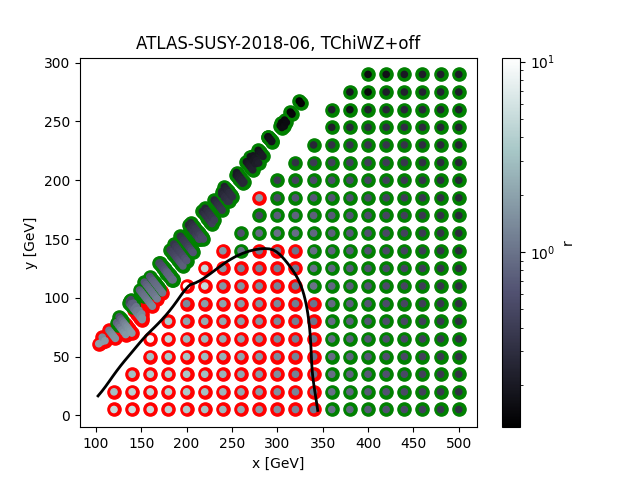
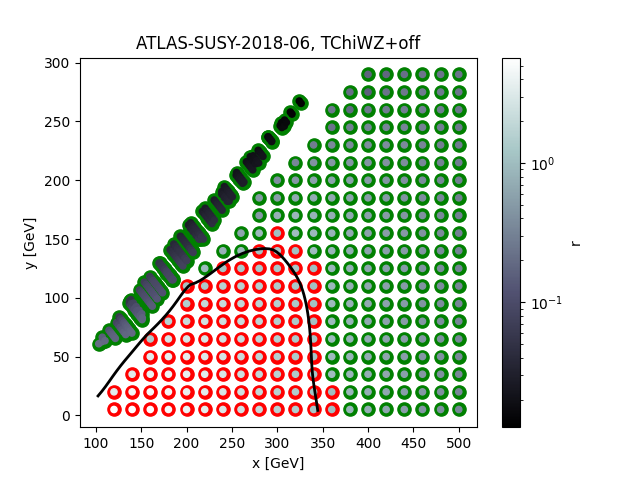
Ratioplots added

diff --git a/plots/README.md b/plots/README.md
@@ -1,12 +1,13 @@
 # collection of plots
-Tue Sep 14 14:59:46 2021
+Wed Sep 15 18:34:47 2021
 
 |                    |                  |
 |:------------------:|:----------------:|
-|  ATLAS-SUSY-2013-04-eff_T5WW+off ![./bestSR_ATLAS-SUSY-2013-04-eff_T5WW+off.png](./bestSR_ATLAS-SUSY-2013-04-eff_T5WW+off.png?1631624386.0815217) |  ATLAS-SUSY-2013-04_T5WW+off_x0.5x+0.5yyx0.5x+0.5yy ![./combo_ATLAS-SUSY-2013-04_T5WW+off_x0.5x+0.5yyx0.5x+0.5yy.png](./combo_ATLAS-SUSY-2013-04_T5WW+off_x0.5x+0.5yyx0.5x+0.5yy.png?1631624386.0815217) |
-|  ATLAS-SUSY-2013-09-eff_T6ttWW+off ![./bestSR_ATLAS-SUSY-2013-09-eff_T6ttWW+off.png](./bestSR_ATLAS-SUSY-2013-09-eff_T6ttWW+off.png?1631624386.0815217) |  ATLAS-SUSY-2013-09_T6ttWW+off_x2yyx2yy ![./combo_ATLAS-SUSY-2013-09_T6ttWW+off_x2yyx2yy.png](./combo_ATLAS-SUSY-2013-09_T6ttWW+off_x2yyx2yy.png?1631624386.0815217) |
-|  ATLAS-SUSY-2013-11-eff_TChiWW+off ![./bestSR_ATLAS-SUSY-2013-11-eff_TChiWW+off.png](./bestSR_ATLAS-SUSY-2013-11-eff_TChiWW+off.png?1631624386.0815217) |  ATLAS-SUSY-2013-11_TChiWW+off_xyxy ![./combo_ATLAS-SUSY-2013-11_TChiWW+off_xyxy.png](./combo_ATLAS-SUSY-2013-11_TChiWW+off_xyxy.png?1631624386.0815217) |
-|  ATLAS-SUSY-2018-06-eff_TChiWZ+off ![./bestSR_ATLAS-SUSY-2018-06-eff_TChiWZ+off.png](./bestSR_ATLAS-SUSY-2018-06-eff_TChiWZ+off.png?1631624386.0815217) |  ATLAS-SUSY-2018-06_TChiWZ+off_xyxy ![./combo_ATLAS-SUSY-2018-06_TChiWZ+off_xyxy.png](./combo_ATLAS-SUSY-2018-06_TChiWZ+off_xyxy.png?1631624386.0815217) |
-|  CMS-SUS-13-012-eff_T5WW+off ![./bestSR_CMS-SUS-13-012-eff_T5WW+off.png](./bestSR_CMS-SUS-13-012-eff_T5WW+off.png?1631624386.0815217) |  CMS-SUS-13-012-eff_T6bbWW+off ![./bestSR_CMS-SUS-13-012-eff_T6bbWW+off.png](./bestSR_CMS-SUS-13-012-eff_T6bbWW+off.png?1631624386.0815217) |
-|  CMS-SUS-13-012_T5WW+off_x0.5x+0.5yyx0.5x+0.5yy ![./combo_CMS-SUS-13-012_T5WW+off_x0.5x+0.5yyx0.5x+0.5yy.png](./combo_CMS-SUS-13-012_T5WW+off_x0.5x+0.5yyx0.5x+0.5yy.png?1631624386.0815217) |  CMS-SUS-13-012_T6bbWW+off_x0.5x+0.5yyx0.5x+0.5yy ![./combo_CMS-SUS-13-012_T6bbWW+off_x0.5x+0.5yyx0.5x+0.5yy.png](./combo_CMS-SUS-13-012_T6bbWW+off_x0.5x+0.5yyx0.5x+0.5yy.png?1631624386.0815217) |
-|  before_ATLAS-SUSY-2013-11_TChiWW+off_xyxy ![./before_combo_ATLAS-SUSY-2013-11_TChiWW+off_xyxy.png](./before_combo_ATLAS-SUSY-2013-11_TChiWW+off_xyxy.png?1631624386.0815217) 
+|  ATLAS-SUSY-2013-04-eff_T5WW+off ![./bestSR_ATLAS-SUSY-2013-04-eff_T5WW+off.png](./bestSR_ATLAS-SUSY-2013-04-eff_T5WW+off.png?1631723687.1673763) |  ATLAS-SUSY-2013-04_T5WW+off_x0.5x+0.5yyx0.5x+0.5yy ![./combo_ATLAS-SUSY-2013-04_T5WW+off_x0.5x+0.5yyx0.5x+0.5yy.png](./combo_ATLAS-SUSY-2013-04_T5WW+off_x0.5x+0.5yyx0.5x+0.5yy.png?1631723687.1673763) |
+|  ATLAS-SUSY-2013-09-eff_T6ttWW+off ![./bestSR_ATLAS-SUSY-2013-09-eff_T6ttWW+off.png](./bestSR_ATLAS-SUSY-2013-09-eff_T6ttWW+off.png?1631723687.1673763) |  ATLAS-SUSY-2013-09_T6ttWW+off_x2yyx2yy ![./combo_ATLAS-SUSY-2013-09_T6ttWW+off_x2yyx2yy.png](./combo_ATLAS-SUSY-2013-09_T6ttWW+off_x2yyx2yy.png?1631723687.1673763) |
+|  ATLAS-SUSY-2013-11-eff_TChiWW+off ![./bestSR_ATLAS-SUSY-2013-11-eff_TChiWW+off.png](./bestSR_ATLAS-SUSY-2013-11-eff_TChiWW+off.png?1631723687.1673763) |  ATLAS-SUSY-2013-11_TChiWW+off_xyxy ![./combo_ATLAS-SUSY-2013-11_TChiWW+off_xyxy.png](./combo_ATLAS-SUSY-2013-11_TChiWW+off_xyxy.png?1631723687.1673763) |
+|  ATLAS-SUSY-2018-06-eff_TChiWZ+off ![./bestSR_ATLAS-SUSY-2018-06-eff_TChiWZ+off.png](./bestSR_ATLAS-SUSY-2018-06-eff_TChiWZ+off.png?1631723687.1673763) |  ATLAS-SUSY-2018-06_TChiWZ+off_xyxy ![./combo_ATLAS-SUSY-2018-06_TChiWZ+off_xyxy.png](./combo_ATLAS-SUSY-2018-06_TChiWZ+off_xyxy.png?1631723687.1673763) |
+|  ratios_ATLAS-SUSY-2018-06_TChiWZ ![./ratios_ATLAS-SUSY-2018-06_TChiWZ.png](./ratios_ATLAS-SUSY-2018-06_TChiWZ.png?1631723687.1673763) |  ratios_ATLAS-SUSY-2018-06_TChiWZoff ![./ratios_ATLAS-SUSY-2018-06_TChiWZoff.png](./ratios_ATLAS-SUSY-2018-06_TChiWZoff.png?1631723687.1673763) |
+|  CMS-SUS-13-012-eff_T5WW+off ![./bestSR_CMS-SUS-13-012-eff_T5WW+off.png](./bestSR_CMS-SUS-13-012-eff_T5WW+off.png?1631723687.1673763) |  CMS-SUS-13-012-eff_T6bbWW+off ![./bestSR_CMS-SUS-13-012-eff_T6bbWW+off.png](./bestSR_CMS-SUS-13-012-eff_T6bbWW+off.png?1631723687.1673763) |
+|  CMS-SUS-13-012_T5WW+off_x0.5x+0.5yyx0.5x+0.5yy ![./combo_CMS-SUS-13-012_T5WW+off_x0.5x+0.5yyx0.5x+0.5yy.png](./combo_CMS-SUS-13-012_T5WW+off_x0.5x+0.5yyx0.5x+0.5yy.png?1631723687.1673763) |  CMS-SUS-13-012_T6bbWW+off_x0.5x+0.5yyx0.5x+0.5yy ![./combo_CMS-SUS-13-012_T6bbWW+off_x0.5x+0.5yyx0.5x+0.5yy.png](./combo_CMS-SUS-13-012_T6bbWW+off_x0.5x+0.5yyx0.5x+0.5yy.png?1631723687.1673763) |
+|  before_ATLAS-SUSY-2013-11_TChiWW+off_xyxy ![./before_combo_ATLAS-SUSY-2013-11_TChiWW+off_xyxy.png](./before_combo_ATLAS-SUSY-2013-11_TChiWW+off_xyxy.png?1631723687.1673763) |  ratios.txt ![./ratios.txt](./ratios.txt?1631723687.1673763) |
